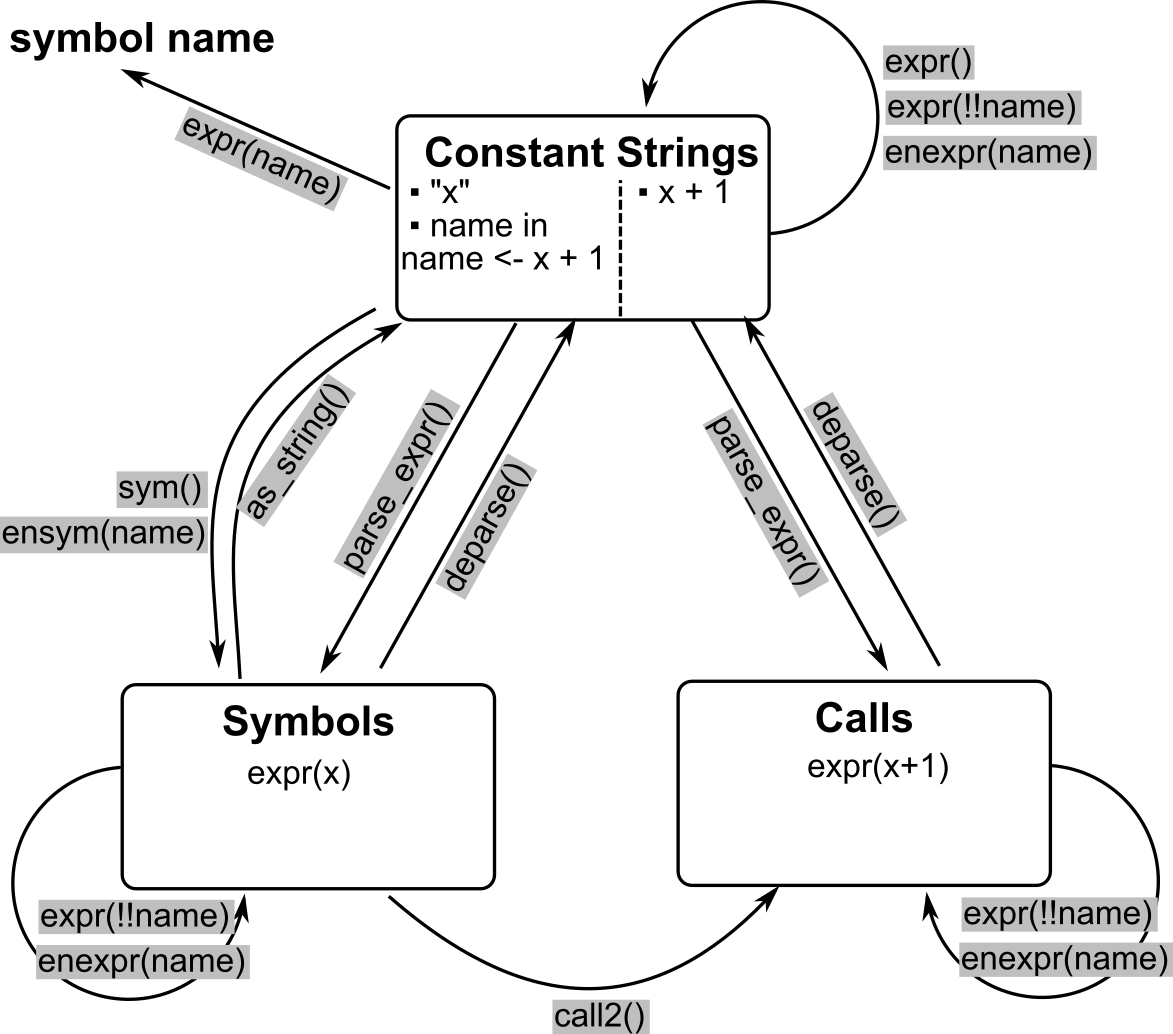
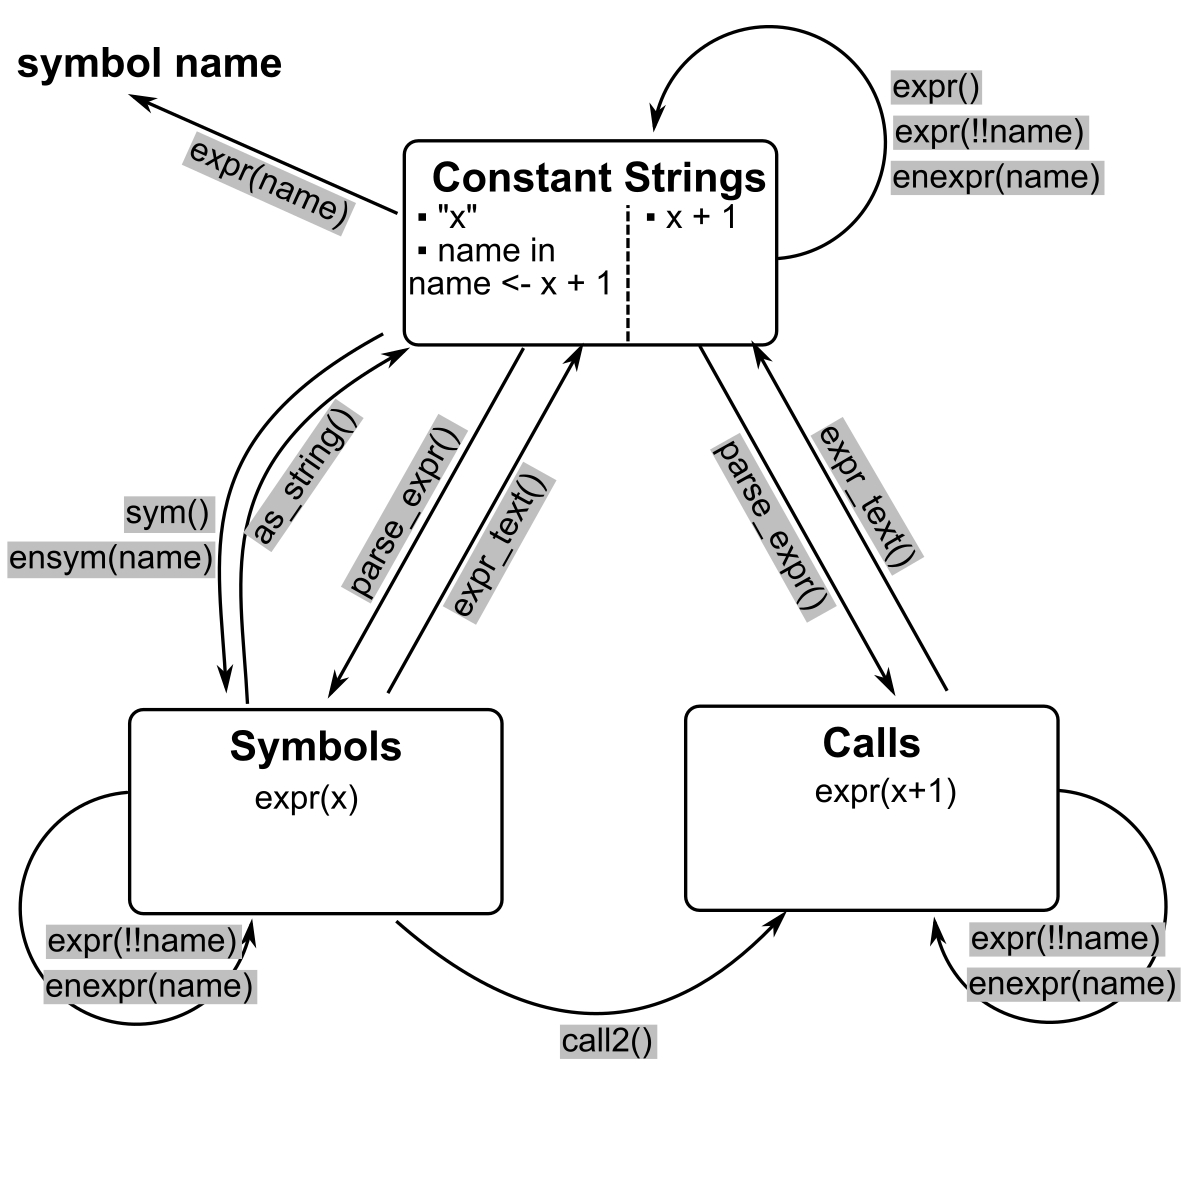
typepoFixed

diff --git a/content/post/2019-09-05-a-love-stroy-among-strings-symbols-and-calls.html b/content/post/2019-09-05-a-love-stroy-among-strings-symbols-and-calls.html
@@ -1,5 +1,5 @@
 ---
-title: "A Love Stroy among strings, symbols and calls"
+title: "A love story among strings, symbols and calls"
 author: ''
 date: '2019-09-05'
 slug: a-love-stroy-among-strings-symbols-and-calls
@@ -97,8 +97,8 @@ str(parse_expr(fs)) # language x + 1</code></pre>
 <pre><code>##  symbol x + 1</code></pre>
 <pre class="r"><code># str(ensym(fe)) # == sym(expr(x + 1)) # error</code></pre>
 </div>
-<div id="parse_expr-and-deparse-are-not-perfectly-symmetric" class="section level4">
-<h4><code>parse_expr()</code> and <code>deparse()</code> are <a href="https://adv-r.hadley.nz/expressions.html#grammar">not perfectly symmetric</a></h4>
+<div id="parse_expr-and-expr_text-are-not-perfectly-symmetric" class="section level4">
+<h4><code>parse_expr()</code> and <code>expr_text()</code> are <a href="https://adv-r.hadley.nz/expressions.html#grammar">not perfectly symmetric</a></h4>
 <pre class="r"><code>(symbol &lt;- ensym(fs))</code></pre>
 <pre><code>## `x + 1`</code></pre>
 <pre class="r"><code>str(symbol)</code></pre>
